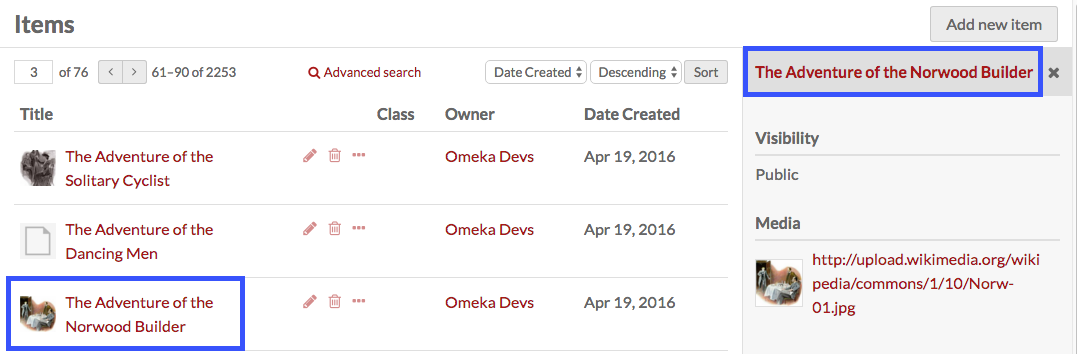
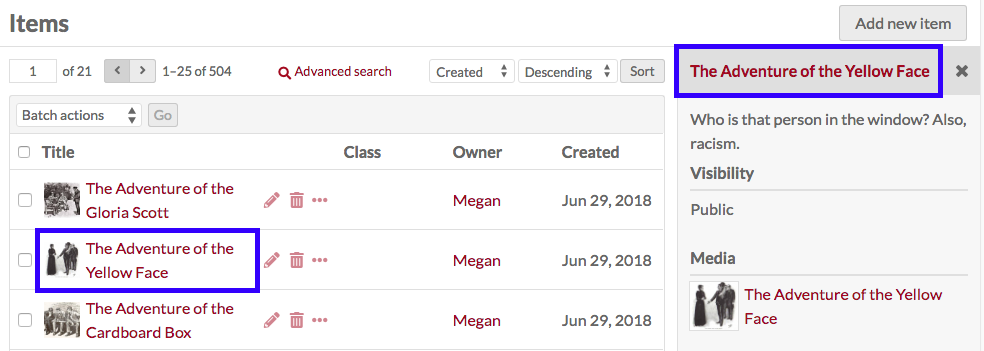
items updates
documenting new location of batch edit buttons, addition filtering options

diff --git a/docs/content/items.md b/docs/content/items.md
@@ -20,11 +20,15 @@ Each item appears as a row, with columns for:
 
 Options for navigating and creating items display above the table of items. 
 
+On the right top of the Items window is the *Add new item* button. 
+
 On the left side is a display for the number of pages of items, with forward and back arrows. The current page number is an editable field - enter any valid page number and hit return/enter on your keyboard to go to that page. 
 
 In the center top is a button for [Advanced Search](/search.md). 
 
-On the right top of the Items window, above the table of items, is the *Add new item* button. Just above the table on the right are options for sorting the table of items, with two dropdown menus. The first lets you select between *Title*, *Class*, *Owner,* and *Date Created*; the second allows you to sort ascending or descending. To apply, click the *sort* button.
+Just above the table on the right are options for sorting the table of items, with two dropdown menus. The first lets you select between *Title*, *Identifier*, *Class*, *Owner,* and *(Date) Created*; the second allows you to sort ascending or descending. To apply, click the *sort* button.
+
+Between these and the table, on the left, is a dropdown for batch actions, including edit selected, edit all, delete selected, and delete all. 
 
 ## View
 To quickly view the basic information about an item, click the *view details* (ellipses) button in the row for the item, located next to the edit and delete buttons. This will open a drawer to the right of the list which displays the item’s title,  description, and visibility.
@@ -33,7 +37,7 @@ For a more detailed look at an individual item, click on its title in the items 
  
 When you view an individual item , there are tabs for the item’s *Metadata* and its *Linked Resources*. The right side of the page displays the item’s media, any *item sets* to which it belongs, its creation date, owner, and visibility. 
 
-![Item browse view with details open for Case of Identity. Links to item view page squared in blue](/content/contentfiles/items_detailview.png) The blue squares indicate where to click to open the full item view.
+![Item browse view with details open for The Adventure of the Yellow Face. Links to item view page squared in blue](/content/contentfiles/items_detailview.png) The blue squares indicate where to click to open the full item view.
 
 An item’s *linked resources* (shown below) are resources, which have been added as properties to the item. Note that this section only shows resources which have been linked *to* this item (which have it for a property); resources which are linked *from* this item will display in the property which they fill.
 
@@ -154,7 +158,7 @@ Note that if an item is private, all the media attached is private, but an item 
 
 ## Batch editing
 
-From the browse page of items (admin/item) you can batch edit items, using the dropdown menu on the upper right near the "Add New Item" button. You can select multiple items using the checkboxes on the left of each item's row.
+From the browse page of items (admin/item) you can batch edit items, using the dropdown menu on the left near the pagination buttons. You can select multiple items using the checkboxes on the left of each item's row.
 
 ![A red arrow points to the dropdown for batch editing and deleting options](/content/contentfiles/items_batch.png)
 
